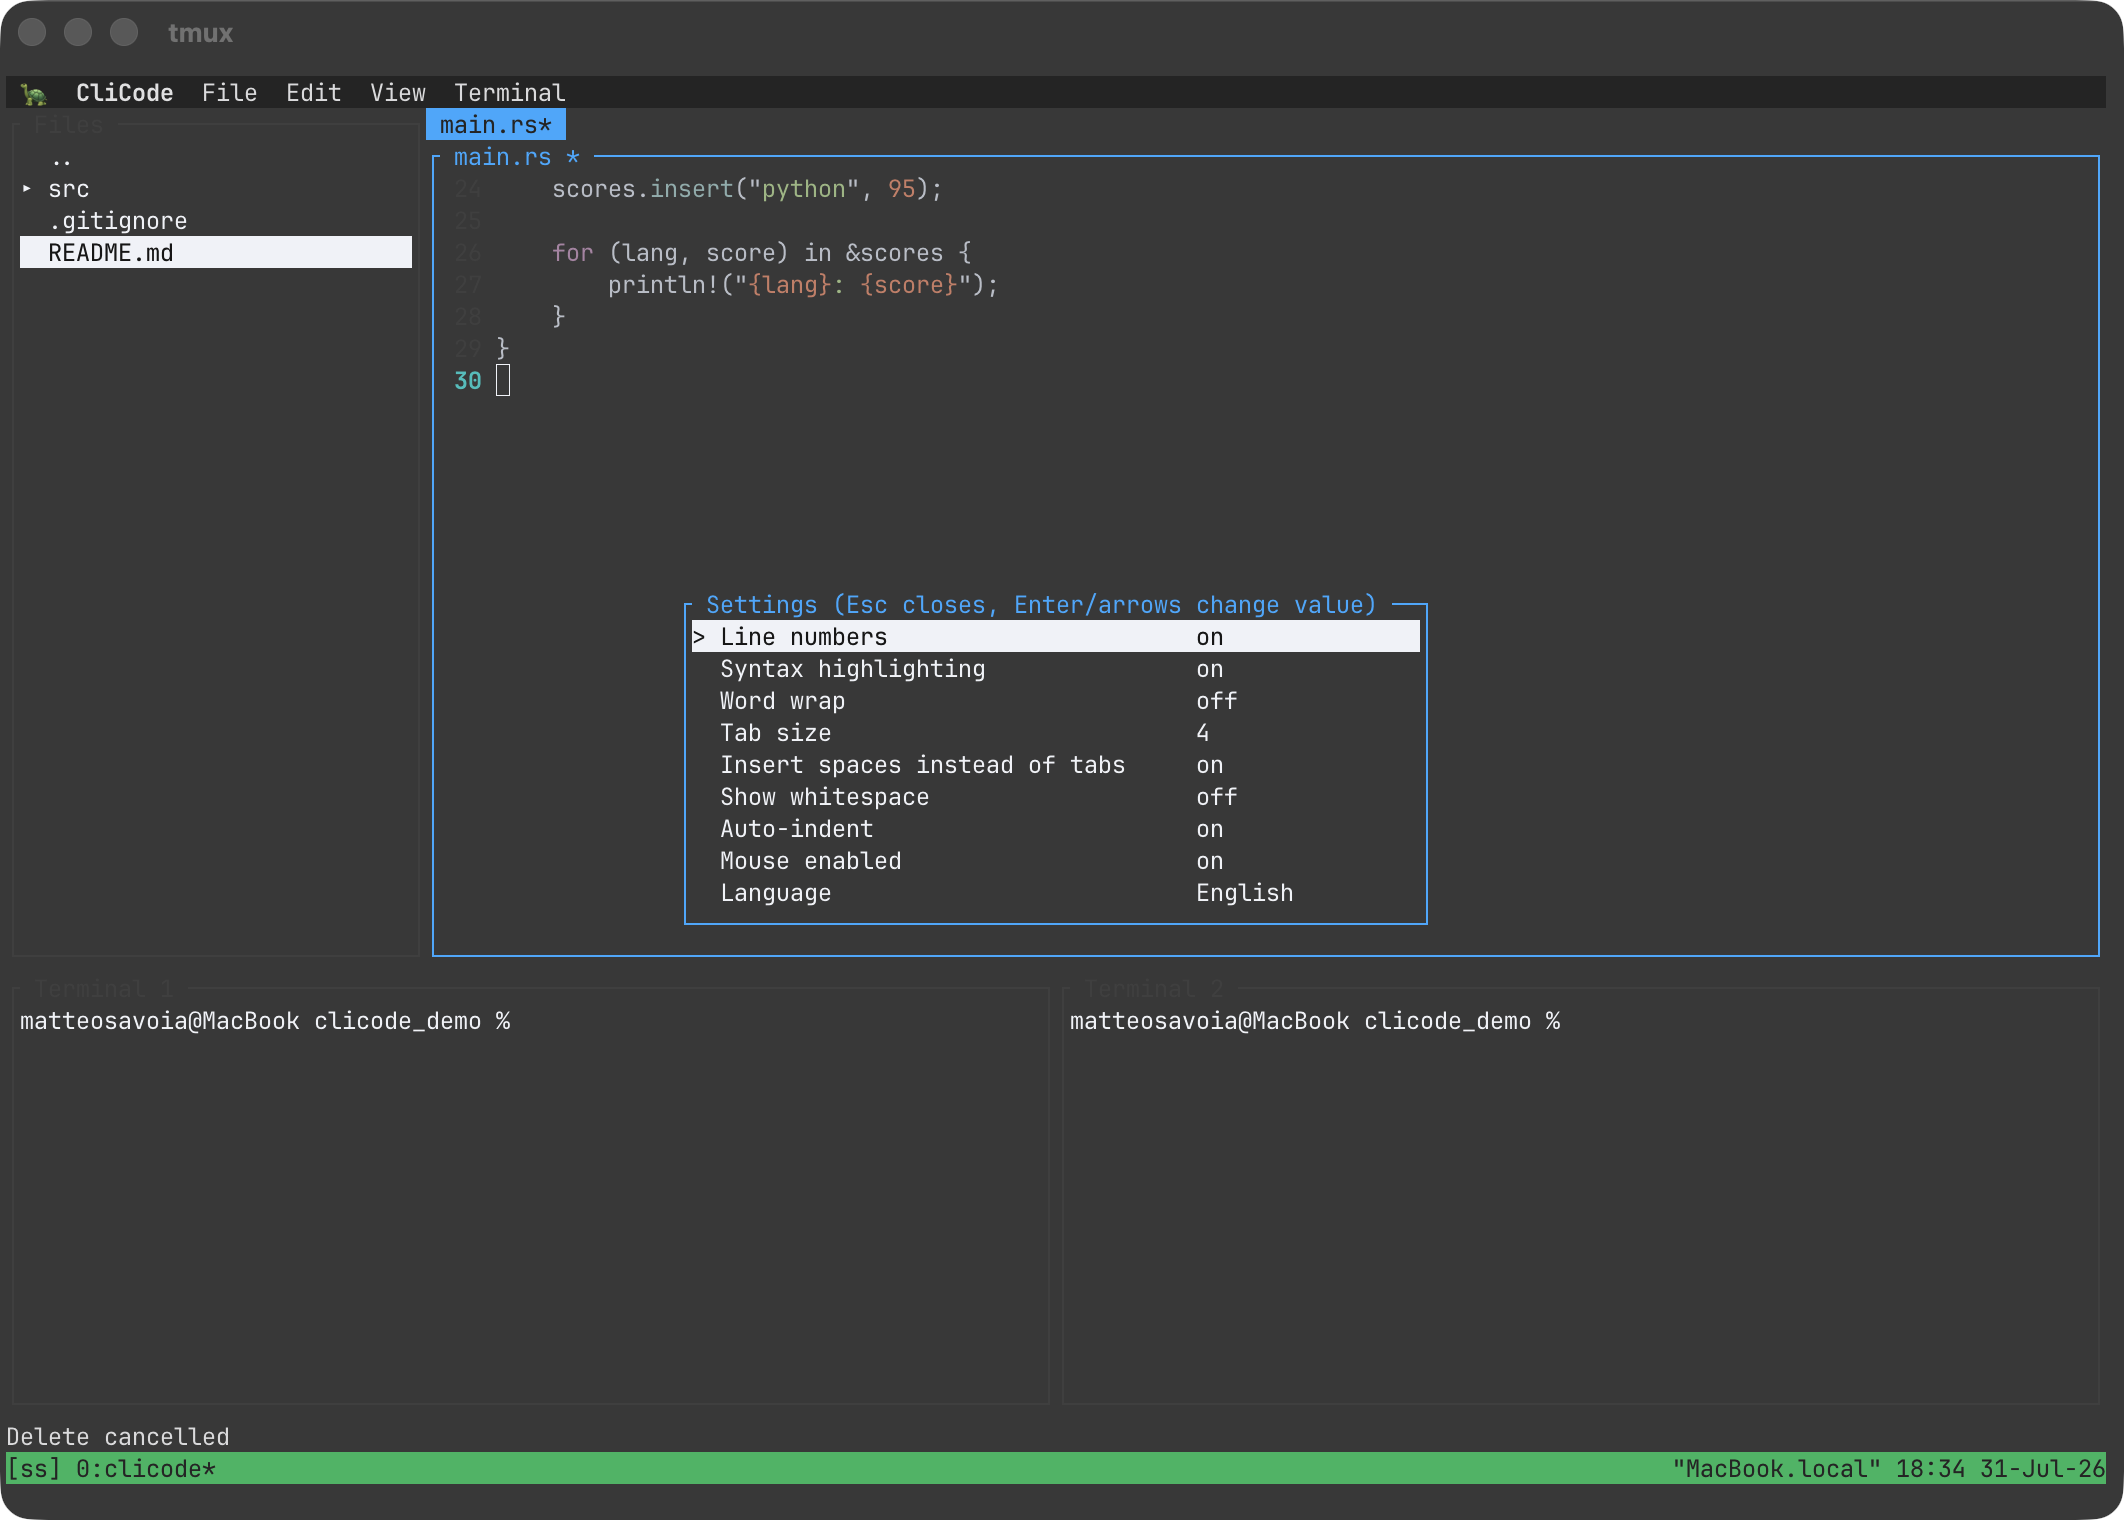
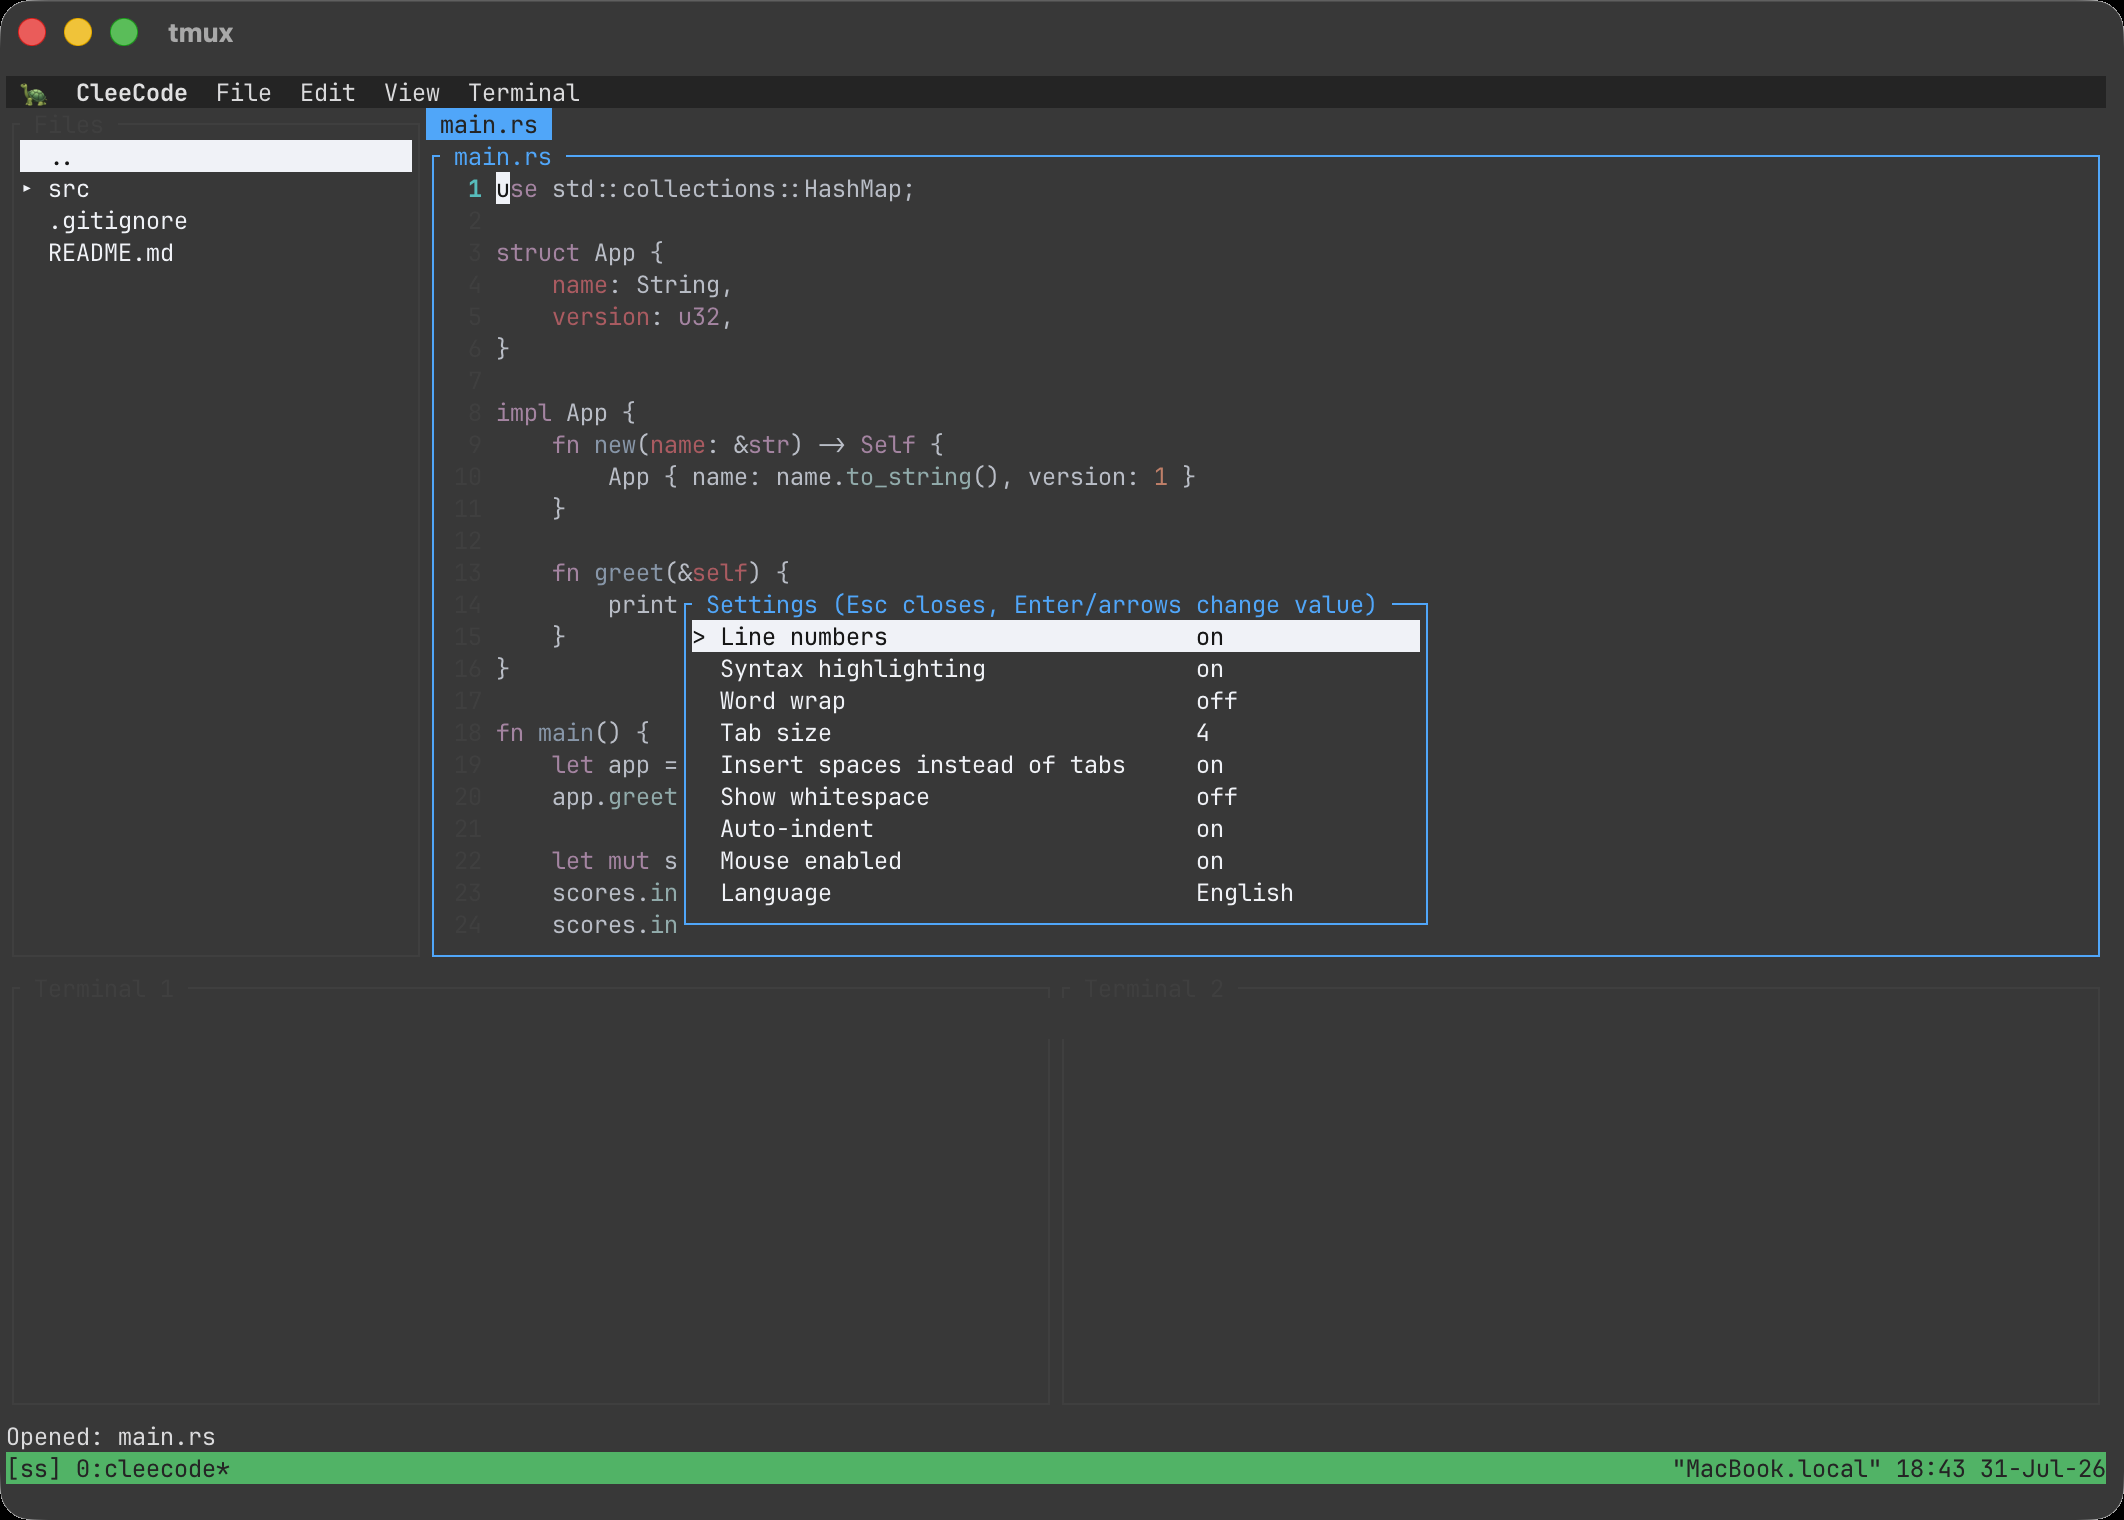
Rebrand to CleeCode
Rename the crate/binary and all user-facing text from clicode to
CleeCode, redo the splash banner ASCII art, and refresh the README
screenshots (also scrubbing the local username from the terminal panes).

diff --git a/src/ui.rs b/src/ui.rs
@@ -151,12 +151,12 @@ fn focused_border_style(is_focused: bool) -> Style {
 }
 
 const SPLASH_BANNER: &[&str] = &[
-    r" ██████╗██╗     ██╗ ██████╗ ██████╗ ██████╗ ███████╗",
-    r"██╔════╝██║     ██║██╔════╝██╔═══██╗██╔══██╗██╔════╝",
-    r"██║     ██║     ██║██║     ██║   ██║██║  ██║█████╗  ",
-    r"██║     ██║     ██║██║     ██║   ██║██║  ██║██╔══╝  ",
-    r"╚██████╗███████╗██║╚██████╗╚██████╔╝██████╔╝███████╗",
-    r" ╚═════╝╚══════╝╚═╝ ╚═════╝ ╚═════╝ ╚═════╝ ╚══════╝",
+    r" ██████╗██╗     ███████╗███████╗ ██████╗ ██████╗ ██████╗ ███████╗",
+    r"██╔════╝██║     ██╔════╝██╔════╝██╔════╝██╔═══██╗██╔══██╗██╔════╝",
+    r"██║     ██║     █████╗  █████╗  ██║     ██║   ██║██║  ██║█████╗  ",
+    r"██║     ██║     ██╔══╝  ██╔══╝  ██║     ██║   ██║██║  ██║██╔══╝  ",
+    r"╚██████╗███████╗███████╗███████╗╚██████╗╚██████╔╝██████╔╝███████╗",
+    r" ╚═════╝╚══════╝╚══════╝╚══════╝ ╚═════╝ ╚═════╝ ╚═════╝ ╚══════╝",
 ];
 
 fn draw_splash(f: &mut Frame, app: &App, full: Rect) {
@@ -323,7 +323,7 @@ fn draw_about_modal(f: &mut Frame, app: &App, full: Rect) {
 
     let lines = vec![
         Line::from(Span::styled(
-            format!("clicode v{}", env!("CARGO_PKG_VERSION")),
+            format!("CleeCode v{}", env!("CARGO_PKG_VERSION")),
             Style::default().add_modifier(Modifier::BOLD),
         )),
         Line::from(""),

diff --git a/src/i18n.rs b/src/i18n.rs
@@ -28,7 +28,7 @@ impl Default for Lang {
 
 #[derive(Clone, Copy)]
 pub enum Key {
-    MenuCliCode,
+    MenuCleeCode,
     MenuFile,
     MenuEdit,
     MenuView,
@@ -73,8 +73,8 @@ pub enum Key {
 pub fn t(lang: Lang, key: Key) -> &'static str {
     use Key::*;
     match (lang, key) {
-        (Lang::En, MenuCliCode) => "CliCode",
-        (Lang::It, MenuCliCode) => "CliCode",
+        (Lang::En, MenuCleeCode) => "CleeCode",
+        (Lang::It, MenuCleeCode) => "CleeCode",
 
         (Lang::En, MenuFile) => "File",
         (Lang::It, MenuFile) => "File",
@@ -109,8 +109,8 @@ pub fn t(lang: Lang, key: Key) -> &'static str {
         (Lang::En, ItemCloseTerminal) => "Close terminal",
         (Lang::It, ItemCloseTerminal) => "Chiudi terminale",
 
-        (Lang::En, ItemAbout) => "About clicode",
-        (Lang::It, ItemAbout) => "Informazioni su clicode",
+        (Lang::En, ItemAbout) => "About CleeCode",
+        (Lang::It, ItemAbout) => "Informazioni su CleeCode",
 
         (Lang::En, ItemCopy) => "Copy",
         (Lang::It, ItemCopy) => "Copia",

diff --git a/src/menu.rs b/src/menu.rs
@@ -38,7 +38,7 @@ fn item(label_key: Key, action: MenuAction, shortcut: Option<&'static str>) -> M
 pub fn menu_defs() -> Vec<MenuDef> {
     vec![
         MenuDef {
-            title_key: Key::MenuCliCode,
+            title_key: Key::MenuCleeCode,
             items: vec![
                 item(Key::ItemAbout, MenuAction::ShowAbout, None),
                 item(Key::ItemOpenSettings, MenuAction::OpenSettings, Some("F4")),

diff --git a/README.md b/README.md
@@ -1,20 +1,20 @@
-# clicode 🐢
+# CleeCode 🐢
 
 A terminal IDE written in Rust: a `micro`-style editor with a file tree sidebar,
-integrated terminals, syntax highlighting, and a Turbo Pascal/Borland-style menu bar —
+integrated terminals, syntax highlighting, and a classic drop-down menu bar —
 all inside your terminal.
 
-![clicode main view](docs/screenshots/main.png)
+![CleeCode main view](docs/screenshots/main.png)
 
 ## Features
 
 - **Editor** — syntax highlighting (via [syntect](https://github.com/trevorfulton/syntect)) for all major languages, line numbers, multi-file tabs, text selection, copy/cut/paste with the real system clipboard, indent/outdent, auto-indent, word wrap, whitespace display
 - **File tree sidebar** — navigate with arrows, expand/collapse with `→`/`←`, `Enter` on a folder makes it the new tree root, `..` walks back up, `Delete` asks for confirmation before removing a file
 - **Multiple terminals** — starts with two side-by-side embedded terminals (real ptys, so `ssh`, `vim`, `claude`, etc. all work); open/close more, auto-clears startup banners, auto-collapses a pane when its shell exits
-- **Menu bar** — a macOS-style `CliCode` app menu (About / Settings / Quit) plus File / Edit / View / Terminal, all keyboard- and mouse-driven, with shortcuts shown inline
+- **Menu bar** — a macOS-style `CleeCode` app menu (About / Settings / Quit) plus File / Edit / View / Terminal, all keyboard- and mouse-driven, with shortcuts shown inline
 - **Settings panel** — line numbers, syntax highlighting, word wrap, tab size, spaces-vs-tabs, whitespace, auto-indent, mouse, language — all live-toggleable
 - **Mouse support** — click to focus any panel, position the cursor, switch tabs, drive every menu and modal
-- **Drag & drop** — drop a file onto the file tree to copy it in; drop it onto a terminal running an active `ssh` session and clicode attempts an `scp` upload
+- **Drag & drop** — drop a file onto the file tree to copy it in; drop it onto a terminal running an active `ssh` session and CleeCode attempts an `scp` upload
 - **Auto-reload** — picks up external changes to the open file without asking, as long as you have no unsaved edits
 - **English by default**, Italian available in Settings → Language (small `i18n` layer, easy to extend)
 
@@ -26,8 +26,8 @@ all inside your terminal.
 
 ```bash
 cargo build --release
-./target/release/clicode            # opens the current directory
-./target/release/clicode src/main.rs  # opens the current directory with a file pre-opened
+./target/release/cleecode              # opens the current directory
+./target/release/cleecode src/main.rs  # opens the current directory with a file pre-opened
 ```
 
 ## Key bindings
@@ -58,4 +58,4 @@ and should build on Linux too.
 
 ## Status
 
-Personal project, actively evolving. Not affiliated with any other "clicode"-named project.
+Personal project, actively evolving.
